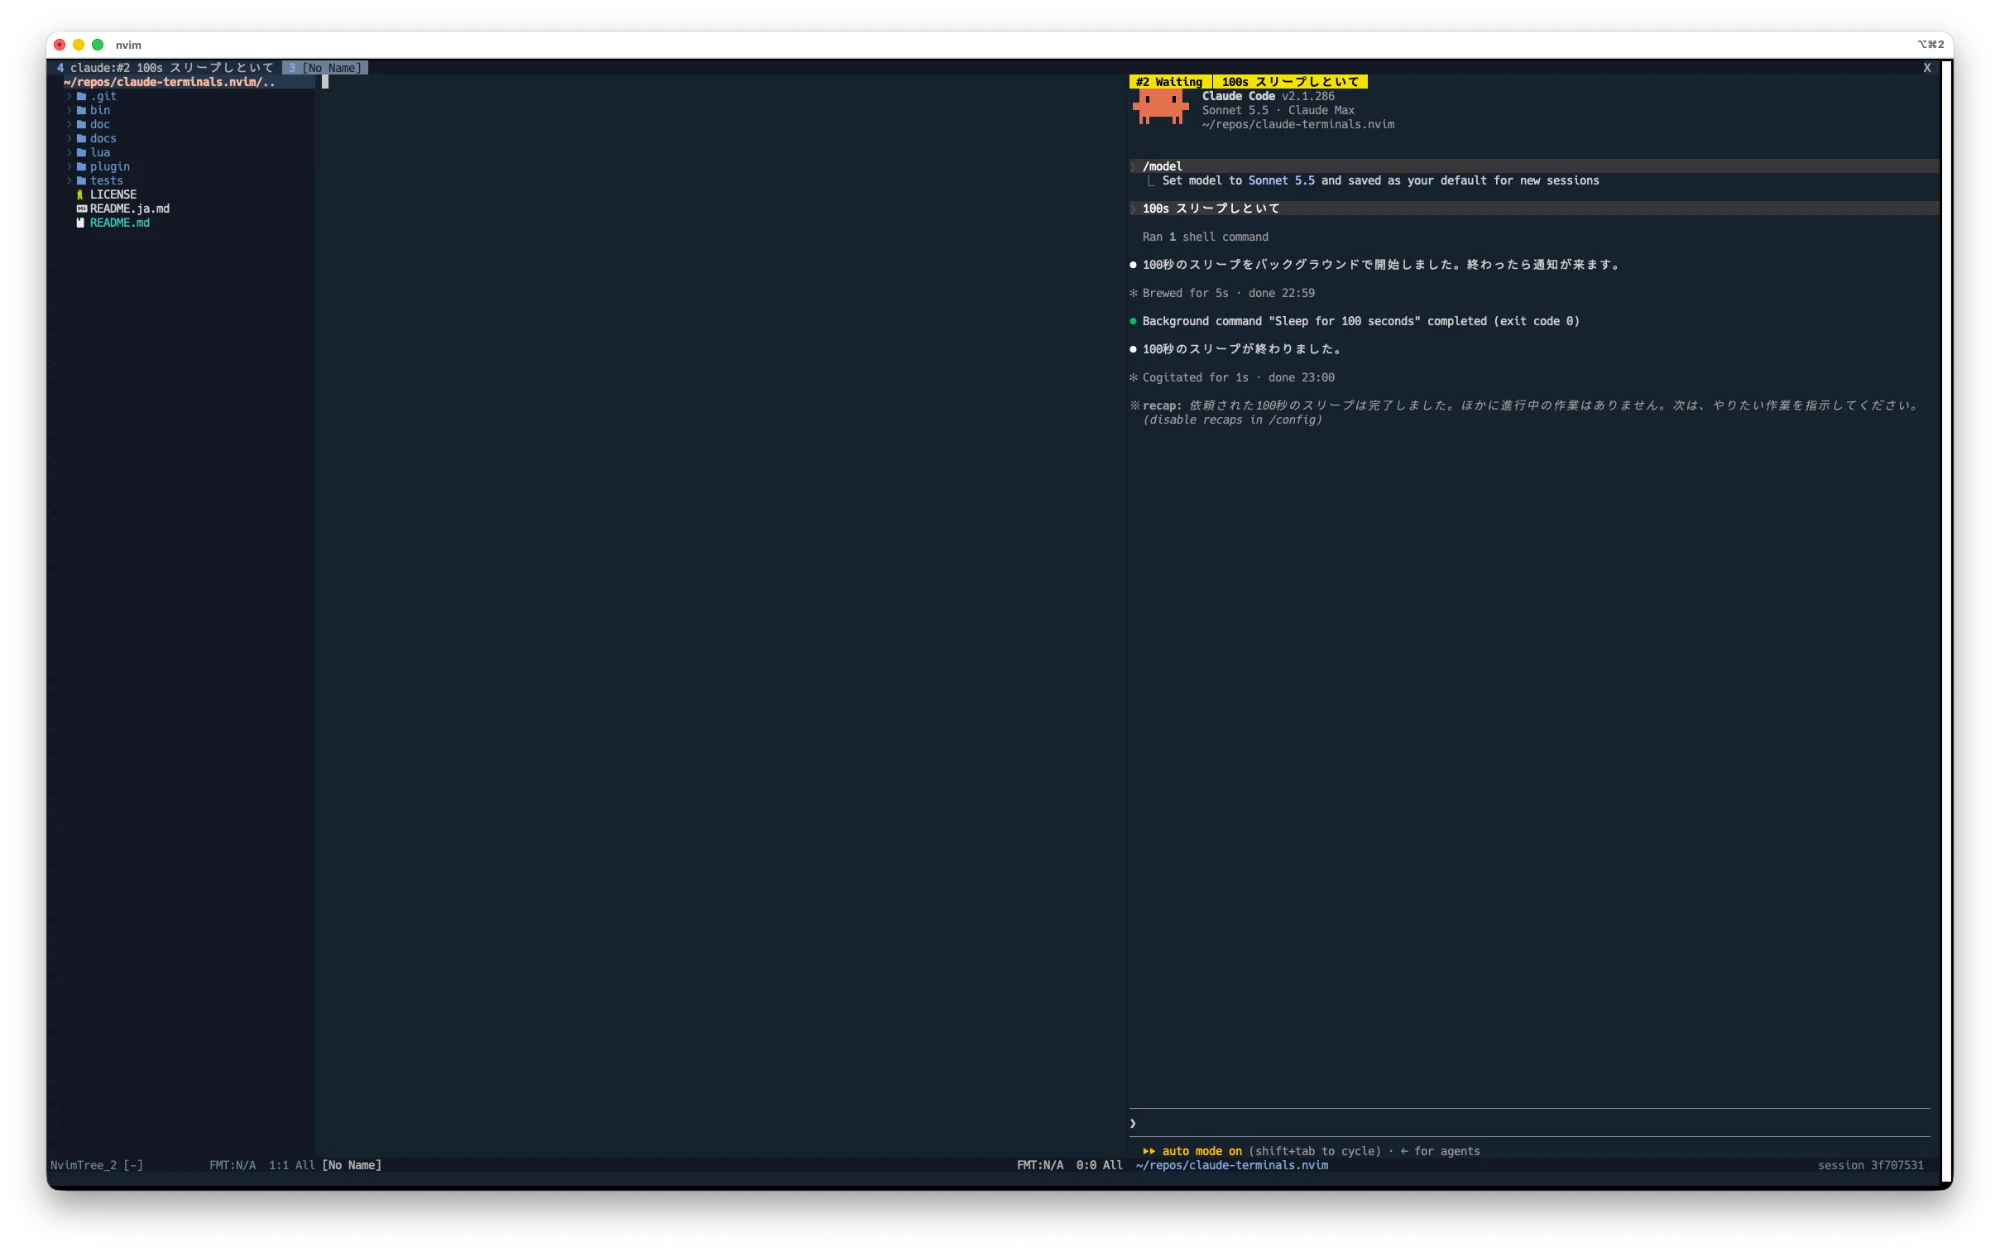
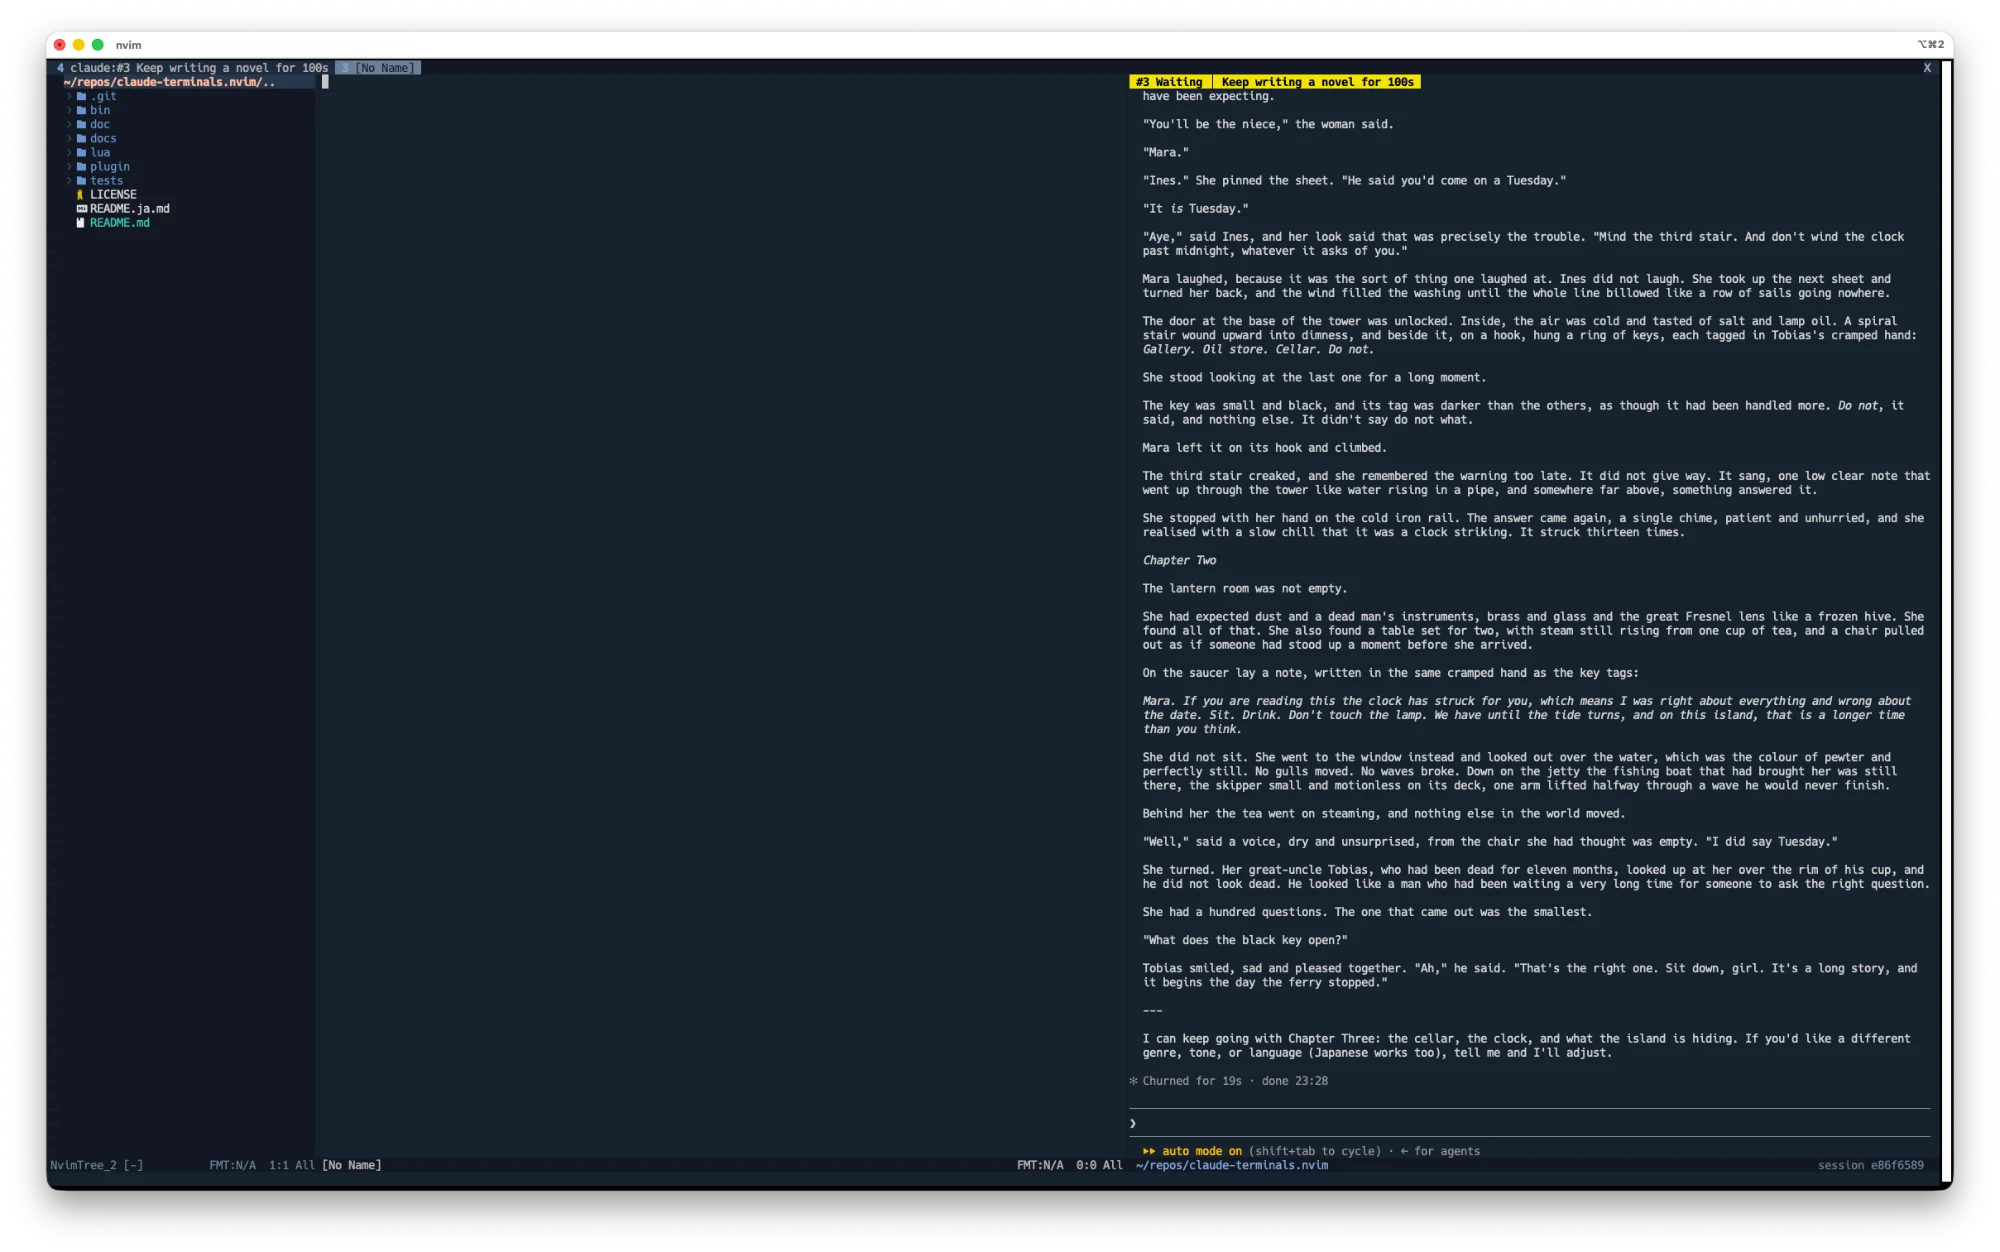
Use English screenshots in the English README
Japanese screenshots move to docs/images/ja/ for README.ja.md.

Changed region(s): [[0.558, 0.0312, 0.961, 0.8722], [0.062, 0.0312, 0.217, 0.0623], [0.93, 0.8099, 0.961, 0.8411]]

diff --git a/README.ja.md b/README.ja.md
@@ -12,7 +12,7 @@ Neovim のターミナルで [Claude Code](https://docs.claude.com/en/docs/claud
 - **集中モード**: ターミナルの cwd で「ファイルツリー ｜ エディタ ｜ ターミナル」を並べた新しいタブを開き、閉じると元の画面構成に戻ります
 - **セッション間の連携**: ターミナル内の Claude が `ct list` / `ct read <番号>` で他のセッションの様子を確認できます
 
-![4 つの Claude Code セッションを並べ、winbar の色で状態を表示している画面](docs/images/terminals.webp)
+![4 つの Claude Code セッションを並べ、winbar の色で状態を表示している画面](docs/images/ja/terminals.webp)
 
 ## 必要なもの
 
@@ -95,7 +95,7 @@ fzf-lua のピッカーでは、`enter` で上のルールどおりに開き、`
 
 `focus()` を実行すると、ターミナルの cwd で「ファイルツリー ｜ エディタ ｜ ターミナル」を並べた新しいタブを開きます。そのタブでもう一度実行すると、元の画面構成に戻ります。
 
-![集中モード: ファイルツリー、エディタ、ターミナル](docs/images/focus.webp)
+![集中モード: ファイルツリー、エディタ、ターミナル](docs/images/ja/focus.webp)
 
 ターミナルの window を `:q` で閉じても、非表示になるだけです。Claude のセッションは動き続け、状態の更新や通知も続きます。終了するには Claude で `/exit` を実行してください。
 
